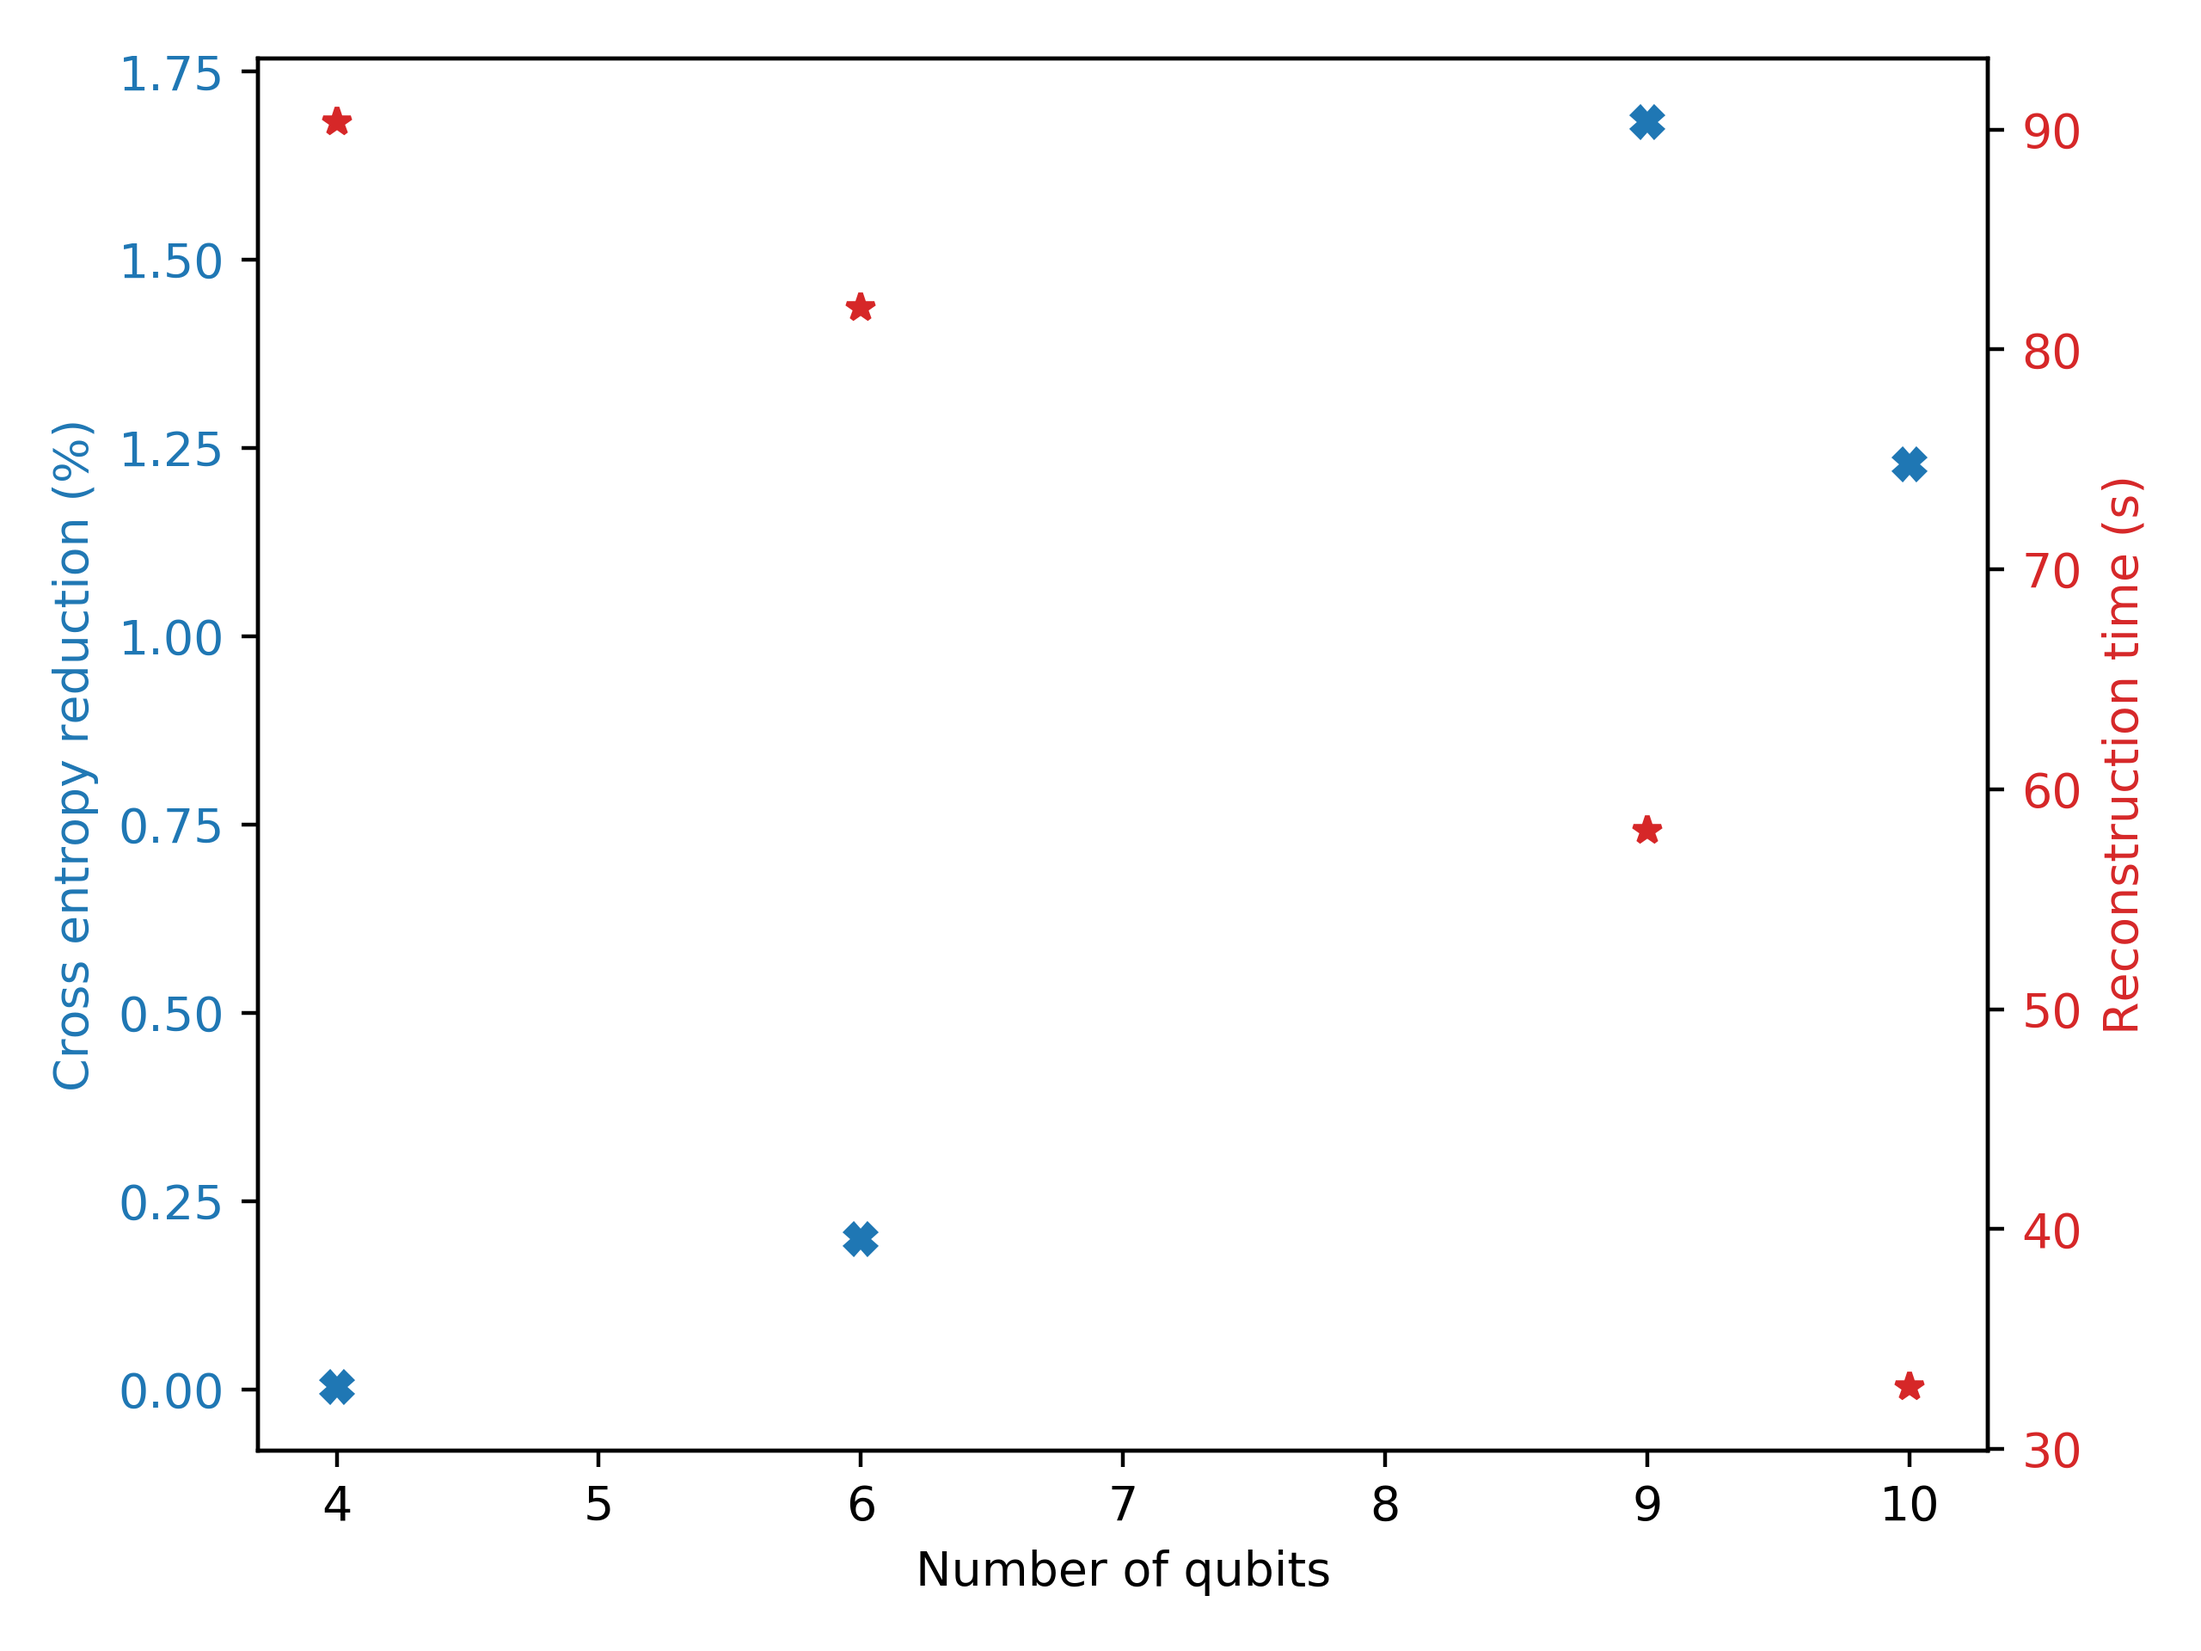
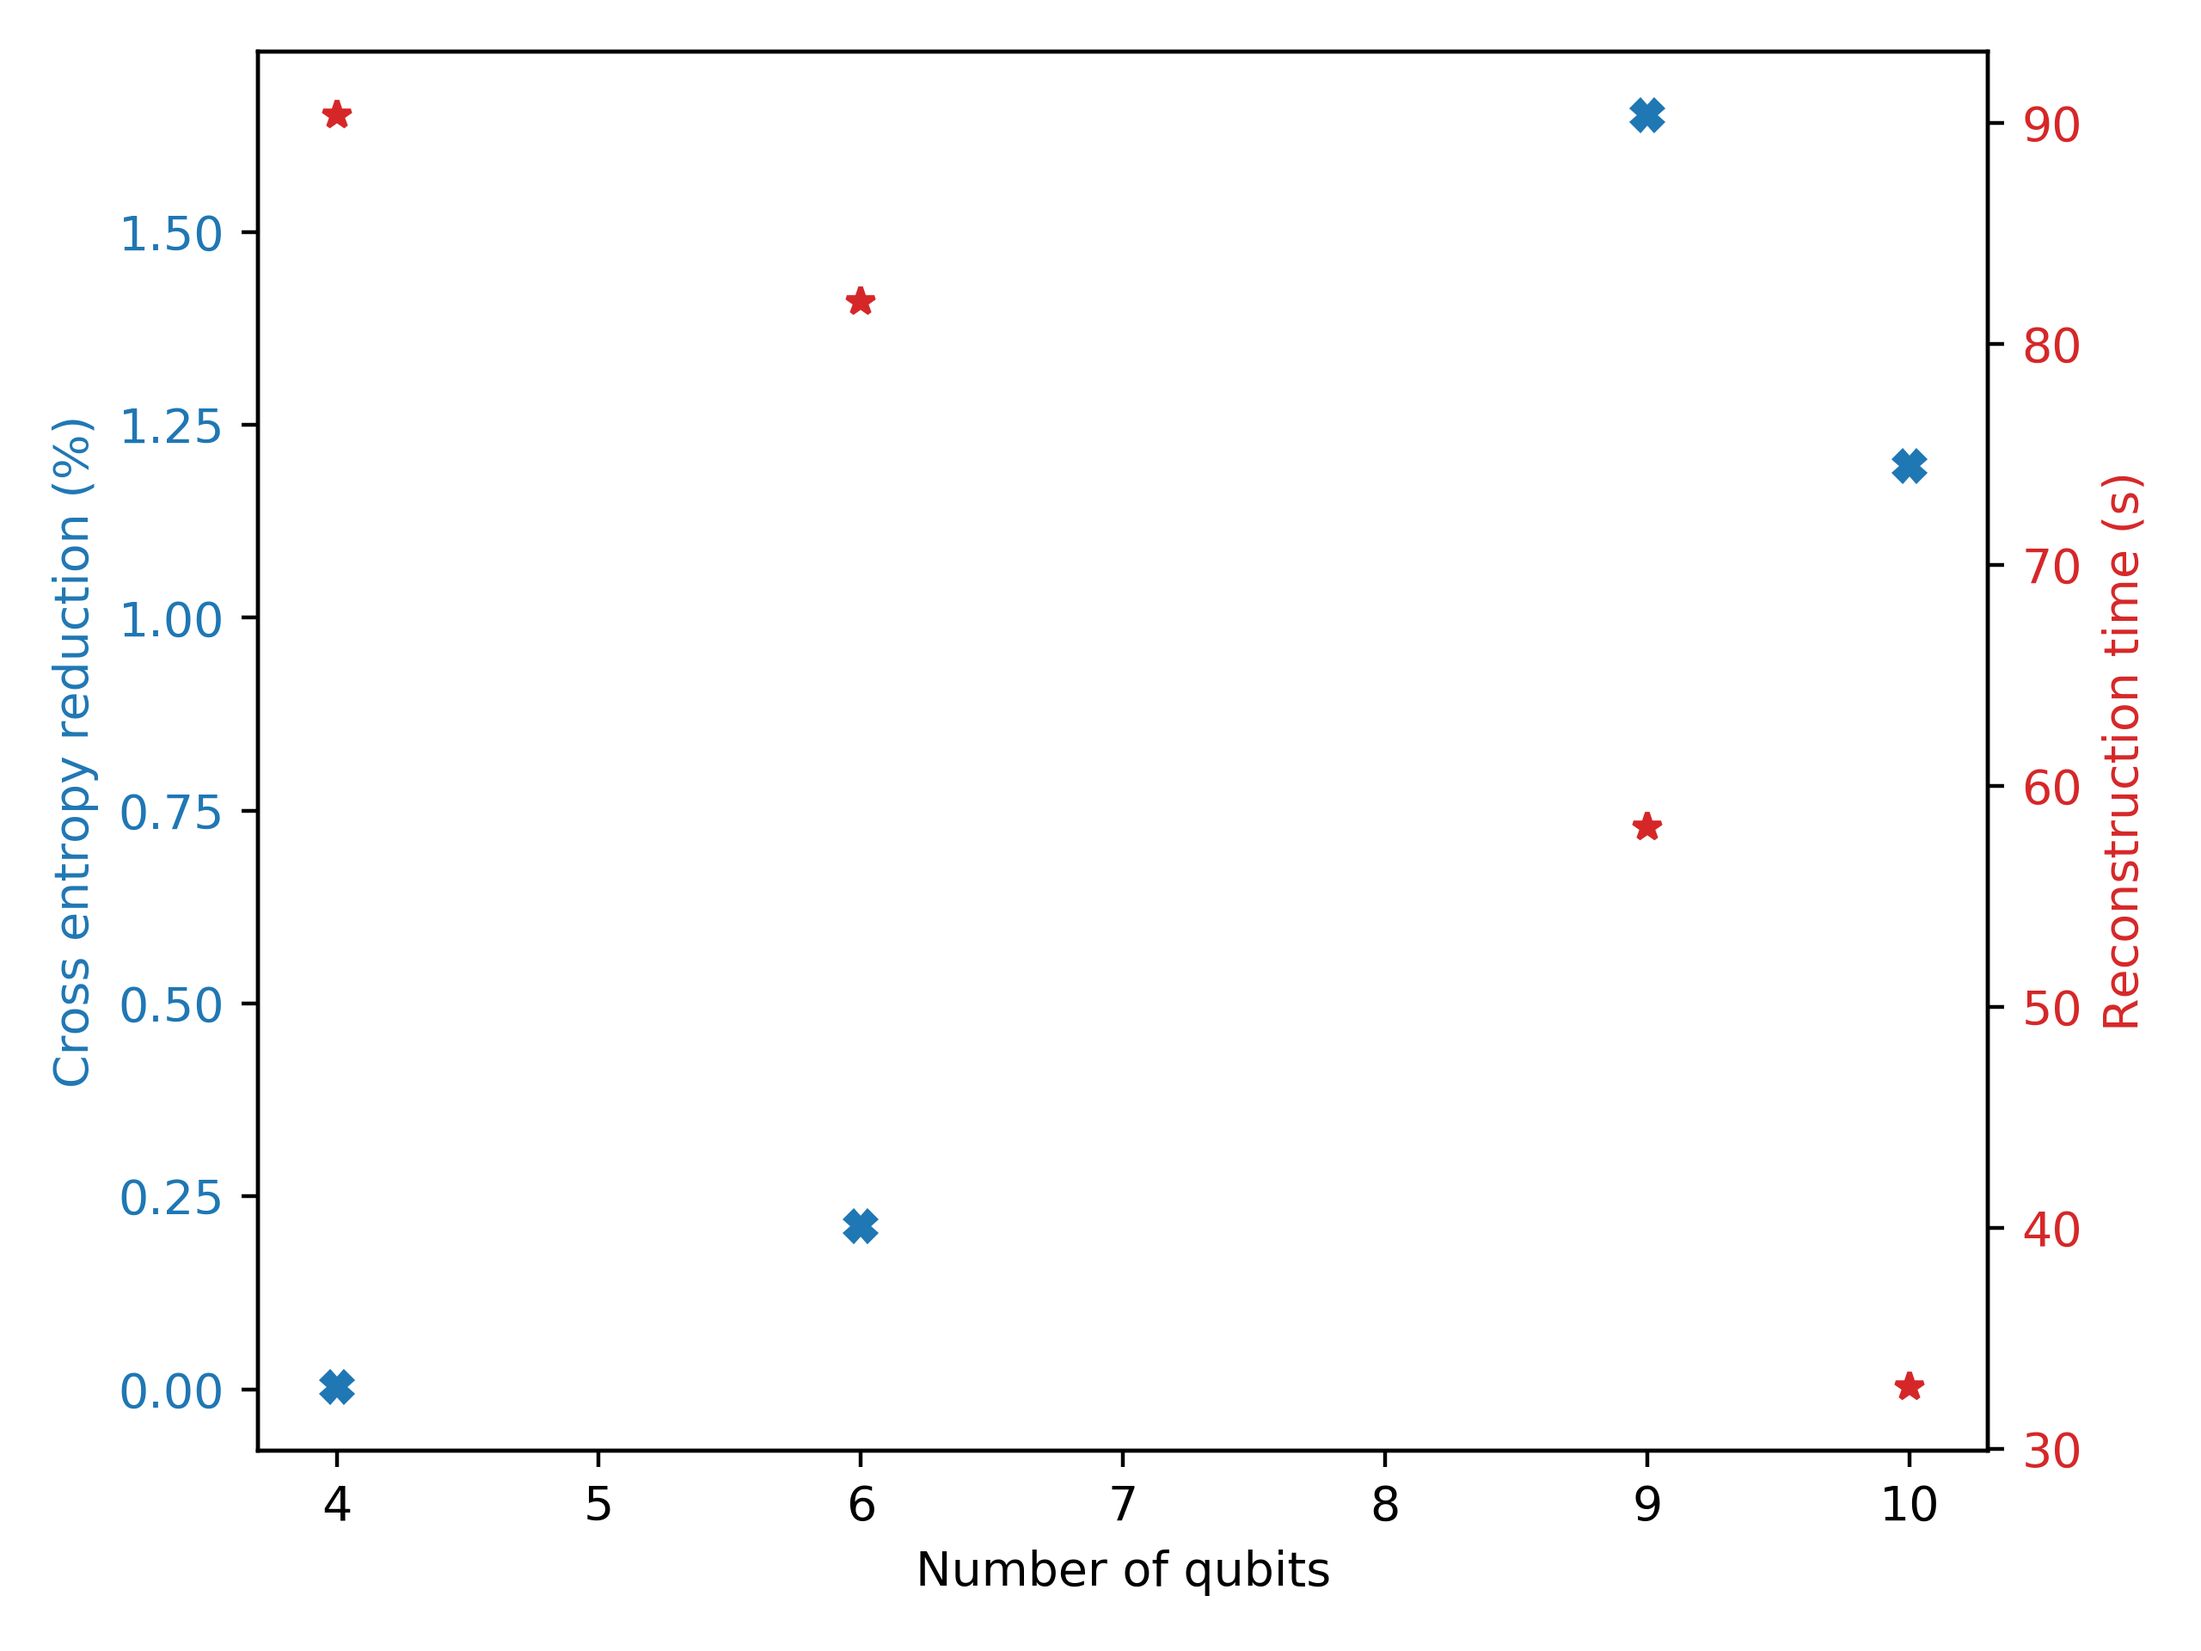
debuged cross entropy, uniter

diff --git a/helper_fun.py b/helper_fun.py
@@ -251,7 +251,7 @@ def tensored_readout_mitigation(num_shots,device,initial_layout):
         num_shots = device.configuration().max_shots
     filter_begin = time()
     properties = device.properties()
-    max_group_len = int(np.log2(device.configuration().max_experiments/3*2))
+    max_group_len = int(np.log2(device.configuration().max_experiments/2))
 
     # Generate the calibration circuits
     num_qubits = len(properties.qubits)
